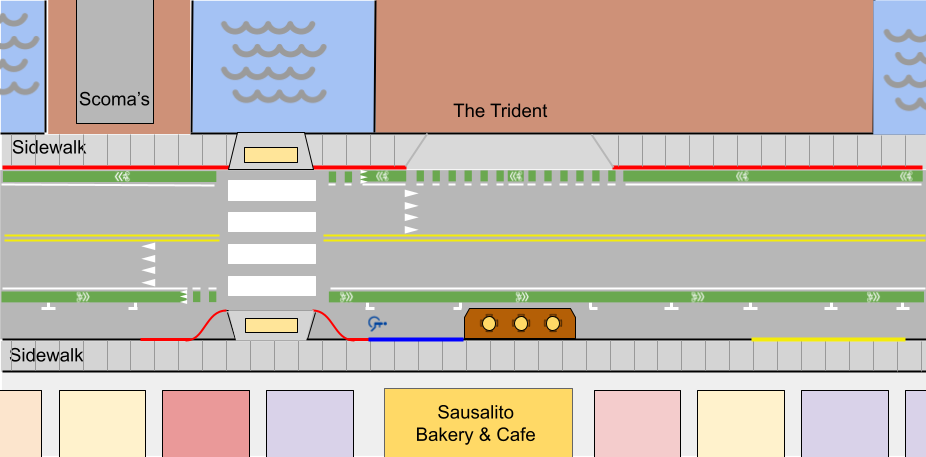
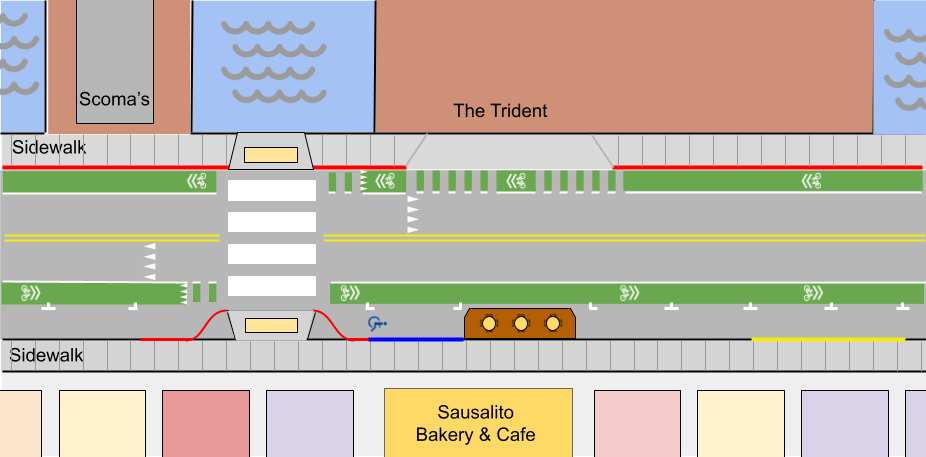
widened bike lanes in scene to match reality

diff --git a/src/scenario.ts b/src/scenario.ts
@@ -397,7 +397,7 @@ export class ScenarioProducer {
     street = street.addLane(
       northboundDirection,
       vehicleLaneWidth,
-      new LaneLinesStyles(solidWhiteLineStyle, solidWhiteLineStyle),
+      new LaneLinesStyles(hiddenLineStyle, hiddenLineStyle),
       this.vehicleTrafficObstacleProducers(
         y,
         northboundDirection,
@@ -423,7 +423,7 @@ export class ScenarioProducer {
       street = street.addLane(
         LaneDirection.LEFT,
         turnLaneWidth,
-        new LaneLinesStyles(solidWhiteLineStyle, solidWhiteLineStyle),
+        new LaneLinesStyles(hiddenLineStyle, hiddenLineStyle),
         turnLaneProducers,
       );
       y = y + turnLaneWidth / 2;
